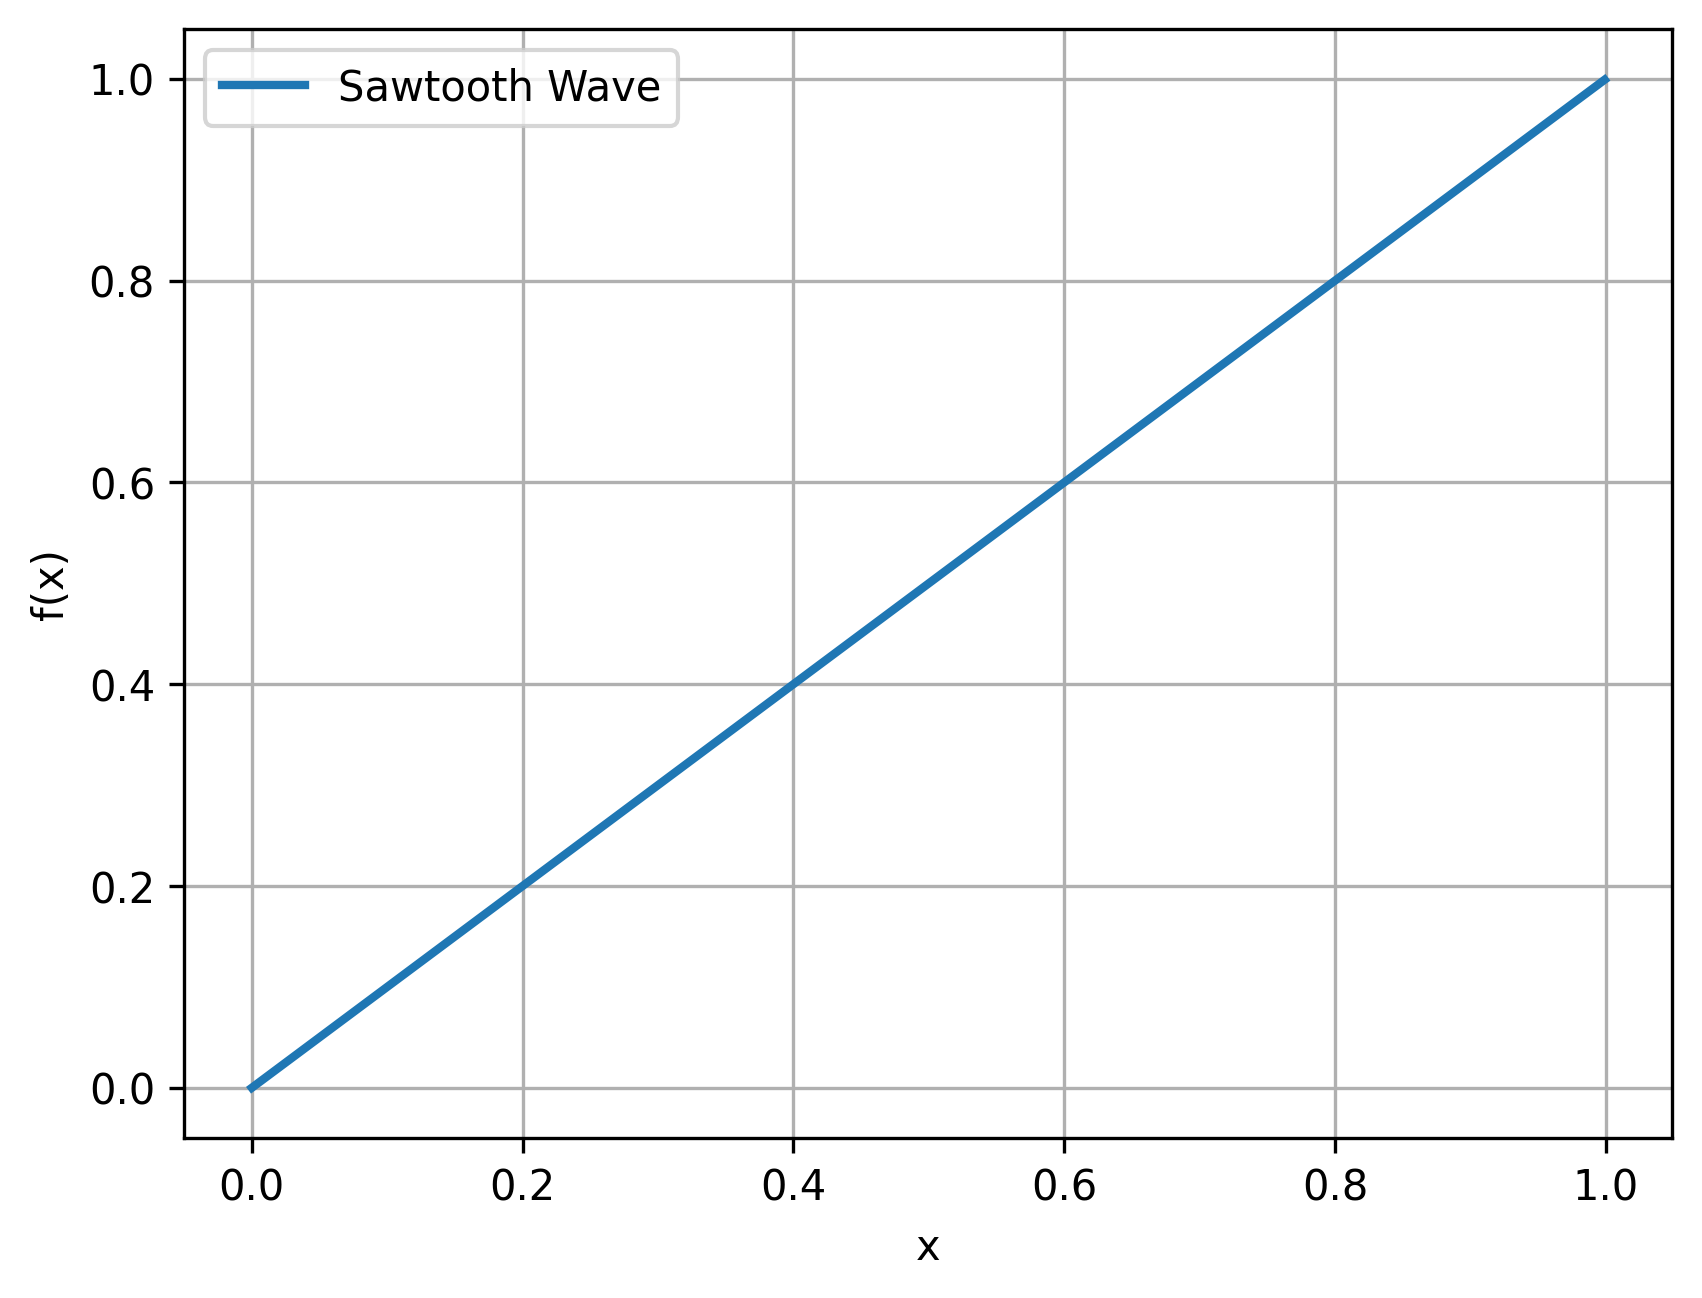
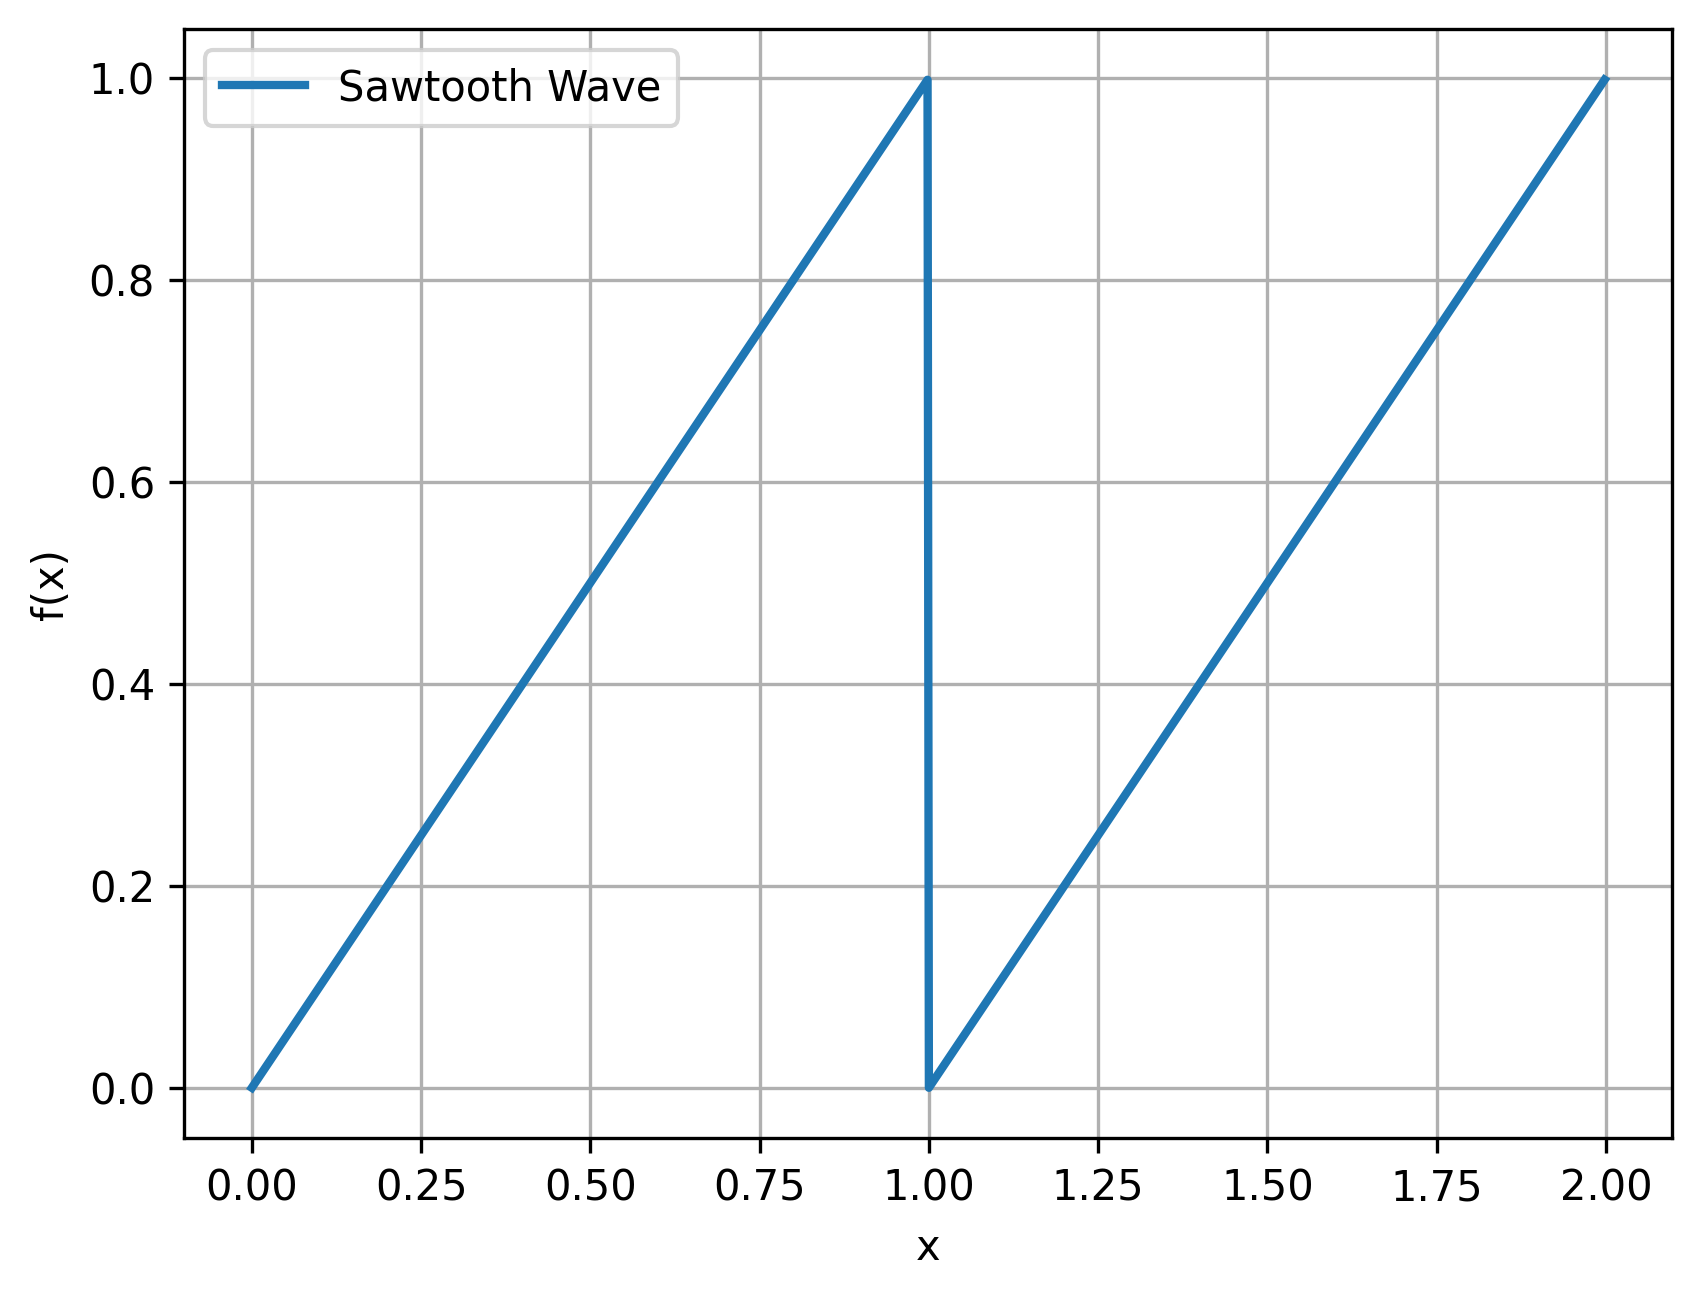
Q4 Done

diff --git a/LAB5/Lab05_Q1_a.py b/LAB5/Lab05_Q1_a.py
@@ -46,7 +46,7 @@ if __name__ == "__main__":
     plt.close()
 
     # sawtooth wave
-    saw_x = np.linspace(0, 1, 1000, endpoint=False)
+    saw_x = np.linspace(0, 2, 1000, endpoint=False)
     saw_y = sawtooth_wave(saw_x, 1)
 
     plt.figure()
